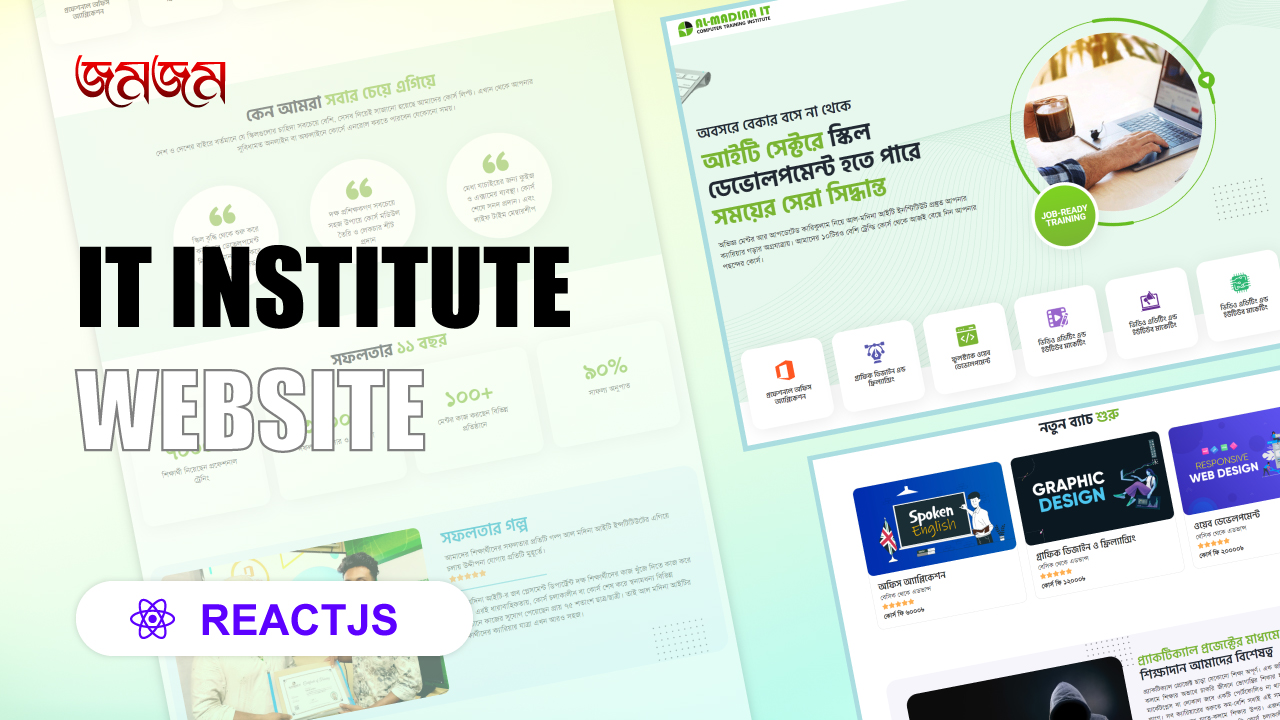
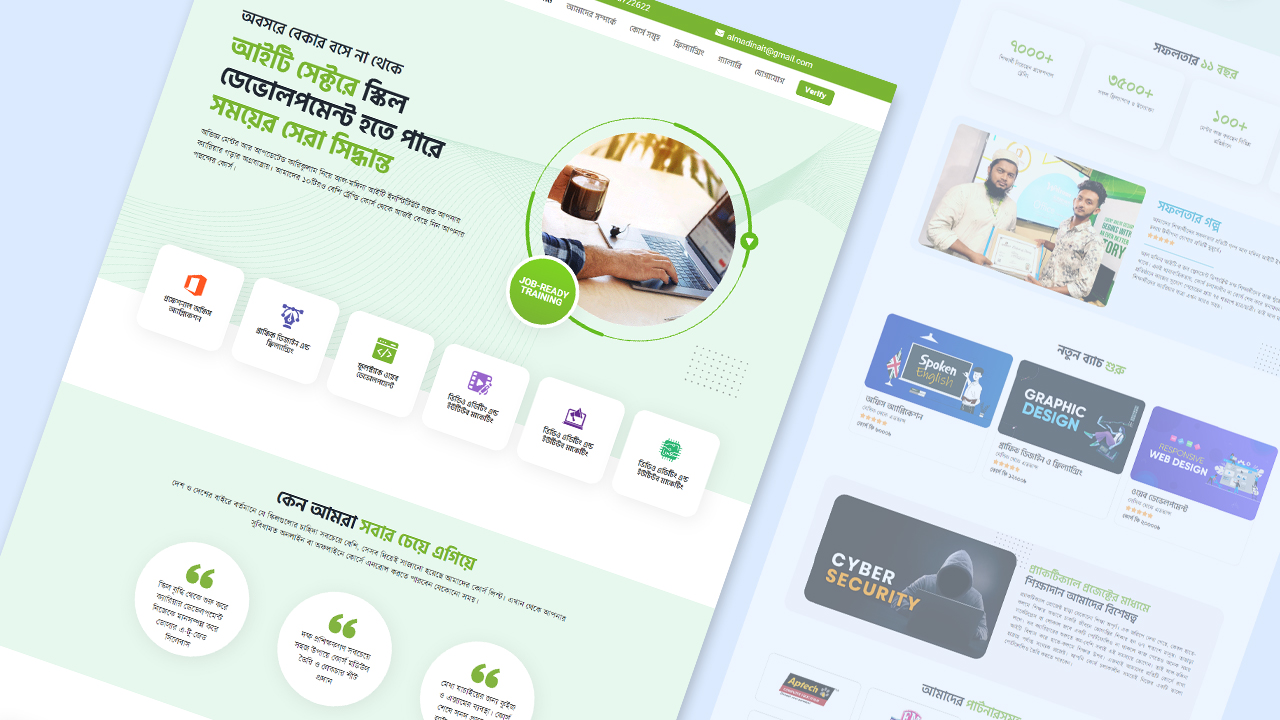
initial

diff --git a/app/page.js b/app/page.js
@@ -1,8 +1,11 @@
 import Animated from "@/app/components/Animated";
 import Services from "@/app/components/Services";
 import StarRating from "@/app/components/StarRating";
-import ProjectPhoto from "@/public/images/almadinait.jpg";
+import almadinaitPhoto from "@/public/images/almadinait.jpg";
+import bhorerpotroPhoto from "@/public/images/bhorerpotro.jpg";
 import ClientPhoto from "@/public/images/hazary.jpg";
+import ovizanPhoto from "@/public/images/ovizan.jpg";
+import tepantorPhoto from "@/public/images/tepantor.jpg";
 import WebdevPhoto from "@/public/images/webdev.png";
 import Image from "next/image";
 import Link from "next/link";
@@ -62,7 +65,7 @@ export default function Home() {
         </div>
       </div>
       <div className="container py-10 px-5">
-        <div className="w-full md:w-3/4 text-center bg-sky-100 mx-auto p-10 rounded-2xl">
+        <div className="w-full md:w-3/4 text-center bg-blue-50 mx-auto p-10 rounded-2xl">
           <h3 className="text-3xl text-black font-bold">About us</h3>
           <p className="p-3">
             Our company specializes in creating visually stunning and highly
@@ -86,9 +89,9 @@ export default function Home() {
         </div>
         <div className="px-5 grid grid-cols-1 md:grid-cols-2 gap-5">
           <div className="grid gap-5">
-            <div className="rounded-lg overflow-hidden">
+            <div className="rounded-lg overflow-hidden relative group">
               <Image
-                src={ProjectPhoto}
+                src={almadinaitPhoto}
                 alt="Project Title"
                 className="duration-500 hover:scale-105"
                 sizes="100vw"
@@ -97,11 +100,18 @@ export default function Home() {
                   height: "auto",
                 }}
               />
+              <Link
+                className="px-6 py-2 text-sm hidden group-hover:block absolute z-10 left-3 bottom-3 rounded-full bg-blue-700 text-white font-medium"
+                href="https://almadinait.com"
+                target="_blank"
+              >
+                Visit Site
+              </Link>
             </div>
             <div className="grid grid-cols-1 sm:grid-cols-2 gap-5">
-              <div className="rounded-lg overflow-hidden">
+              <div className="rounded-lg overflow-hidden relative group">
                 <Image
-                  src={ProjectPhoto}
+                  src={ovizanPhoto}
                   alt="Project Title"
                   className="duration-500 hover:scale-105"
                   sizes="100vw"
@@ -110,10 +120,17 @@ export default function Home() {
                     height: "auto",
                   }}
                 />
+                <Link
+                  className="px-6 py-2 text-sm hidden group-hover:block absolute z-10 left-3 bottom-3 rounded-full bg-blue-700 text-white font-medium"
+                  href="https://ovizan.net"
+                  target="_blank"
+                >
+                  Visit Site
+                </Link>
               </div>
-              <div className="rounded-lg overflow-hidden">
+              <div className="rounded-lg overflow-hidden relative group">
                 <Image
-                  src={ProjectPhoto}
+                  src={bhorerpotroPhoto}
                   alt="Project Title"
                   className="duration-500 hover:scale-105"
                   sizes="100vw"
@@ -122,14 +139,21 @@ export default function Home() {
                     height: "auto",
                   }}
                 />
+                <Link
+                  className="px-6 py-2 text-sm hidden group-hover:block absolute z-10 left-3 bottom-3 rounded-full bg-blue-700 text-white font-medium"
+                  href="https://bhorerpotro.com"
+                  target="_blank"
+                >
+                  Visit Site
+                </Link>
               </div>
             </div>
           </div>
           <div className="grid gap-5">
             <div className="grid grid-cols-1 sm:grid-cols-2 gap-5">
-              <div className="rounded-lg overflow-hidden">
+              <div className="rounded-lg overflow-hidden relative group">
                 <Image
-                  src={ProjectPhoto}
+                  src={tepantorPhoto}
                   alt="Project Title"
                   className="duration-500 hover:scale-105"
                   sizes="100vw"
@@ -138,10 +162,17 @@ export default function Home() {
                     height: "auto",
                   }}
                 />
+                <Link
+                  className="px-6 py-2 text-sm hidden group-hover:block absolute z-10 left-3 bottom-3 rounded-full bg-blue-700 text-white font-medium"
+                  href="https://tepantor.net"
+                  target="_blank"
+                >
+                  Visit Site
+                </Link>
               </div>
-              <div className="rounded-lg overflow-hidden">
+              <div className="rounded-lg overflow-hidden relative group">
                 <Image
-                  src={ProjectPhoto}
+                  src={ovizanPhoto}
                   alt="Project Title"
                   className="duration-500 hover:scale-105"
                   sizes="100vw"
@@ -150,11 +181,18 @@ export default function Home() {
                     height: "auto",
                   }}
                 />
+                <Link
+                  className="px-6 py-2 text-sm hidden group-hover:block absolute z-10 left-3 bottom-3 rounded-full bg-blue-700 text-white font-medium"
+                  href="https://ovizan.net"
+                  target="_blank"
+                >
+                  Visit Site
+                </Link>
               </div>
             </div>
-            <div className="rounded-lg overflow-hidden">
+            <div className="rounded-lg overflow-hidden relative group">
               <Image
-                src={ProjectPhoto}
+                src={tepantorPhoto}
                 alt="Project Title"
                 className="duration-500 hover:scale-105"
                 sizes="100vw"
@@ -163,6 +201,13 @@ export default function Home() {
                   height: "auto",
                 }}
               />
+              <Link
+                className="px-6 py-2 text-sm hidden group-hover:block absolute z-10 left-3 bottom-3 rounded-full bg-blue-700 text-white font-medium"
+                href="https://tepantor.net"
+                target="_blank"
+              >
+                Visit Site
+              </Link>
             </div>
           </div>
         </div>

diff --git a/app/components/Services.jsx b/app/components/Services.jsx
@@ -8,10 +8,7 @@ import Image from "next/image";
 function Services() {
   return (
     <>
-      <Animated
-        classes="service-box border-gradient"
-        animateClass="animate__fadeInDown"
-      >
+      <Animated classes="service-box" animateClass="animate__fadeInRight">
         <div className="p-5 flex items-center justify-center">
           <Image src={WebDesignIcon} width={80} alt="Web Design" />
         </div>
@@ -25,8 +22,8 @@ function Services() {
         </p>
       </Animated>
       <Animated
-        classes="service-box border-gradient"
-        animateClass="animate__fadeInDown animate__delay-200ms"
+        classes="service-box"
+        animateClass="animate__fadeInRight animate__delay-200ms"
       >
         <div className="p-5 flex items-center justify-center">
           <Image src={ServerIcon} width={80} alt="Web Design" />
@@ -41,8 +38,8 @@ function Services() {
         </p>
       </Animated>
       <Animated
-        classes="service-box border-gradient"
-        animateClass="animate__fadeInDown animate__delay-300ms"
+        classes="service-box"
+        animateClass="animate__fadeInRight animate__delay-300ms"
       >
         <div className="p-5 flex items-center justify-center">
           <Image src={EcommerceIcon} width={80} alt="Web Design" />
@@ -57,8 +54,8 @@ function Services() {
         </p>
       </Animated>
       <Animated
-        classes="service-box border-gradient"
-        animateClass="animate__fadeInDown animate__delay-500ms"
+        classes="service-box"
+        animateClass="animate__fadeInRight animate__delay-500ms"
       >
         <div className="p-5 flex items-center justify-center">
           <Image src={GraphicDesignIcon} width={80} alt="Web Design" />

diff --git a/app/globals.css b/app/globals.css
@@ -23,8 +23,12 @@
       linear-gradient(to top, #b6dbf4, #b6dbf400) border-box;
     border: 3px solid transparent;
   }
+  .scale-general {
+    @apply transition-all ease-in-out delay-150 duration-300 hover:translate-y-1 hover:scale-110;
+  }
+
   .service-box {
-    @apply p-6 bg-white text-center shadow rounded-2xl hover:cursor-pointer hover:bg-gradient-to-t from-white to-[#B6DBF4];
+    @apply p-6 bg-white text-center rounded-2xl border border-b-4 border-blue-100 transition-all ease-in-out delay-150 duration-300 hover:cursor-pointer hover:shadow-xl;
   }
 
   .animate__delay-75ms {
